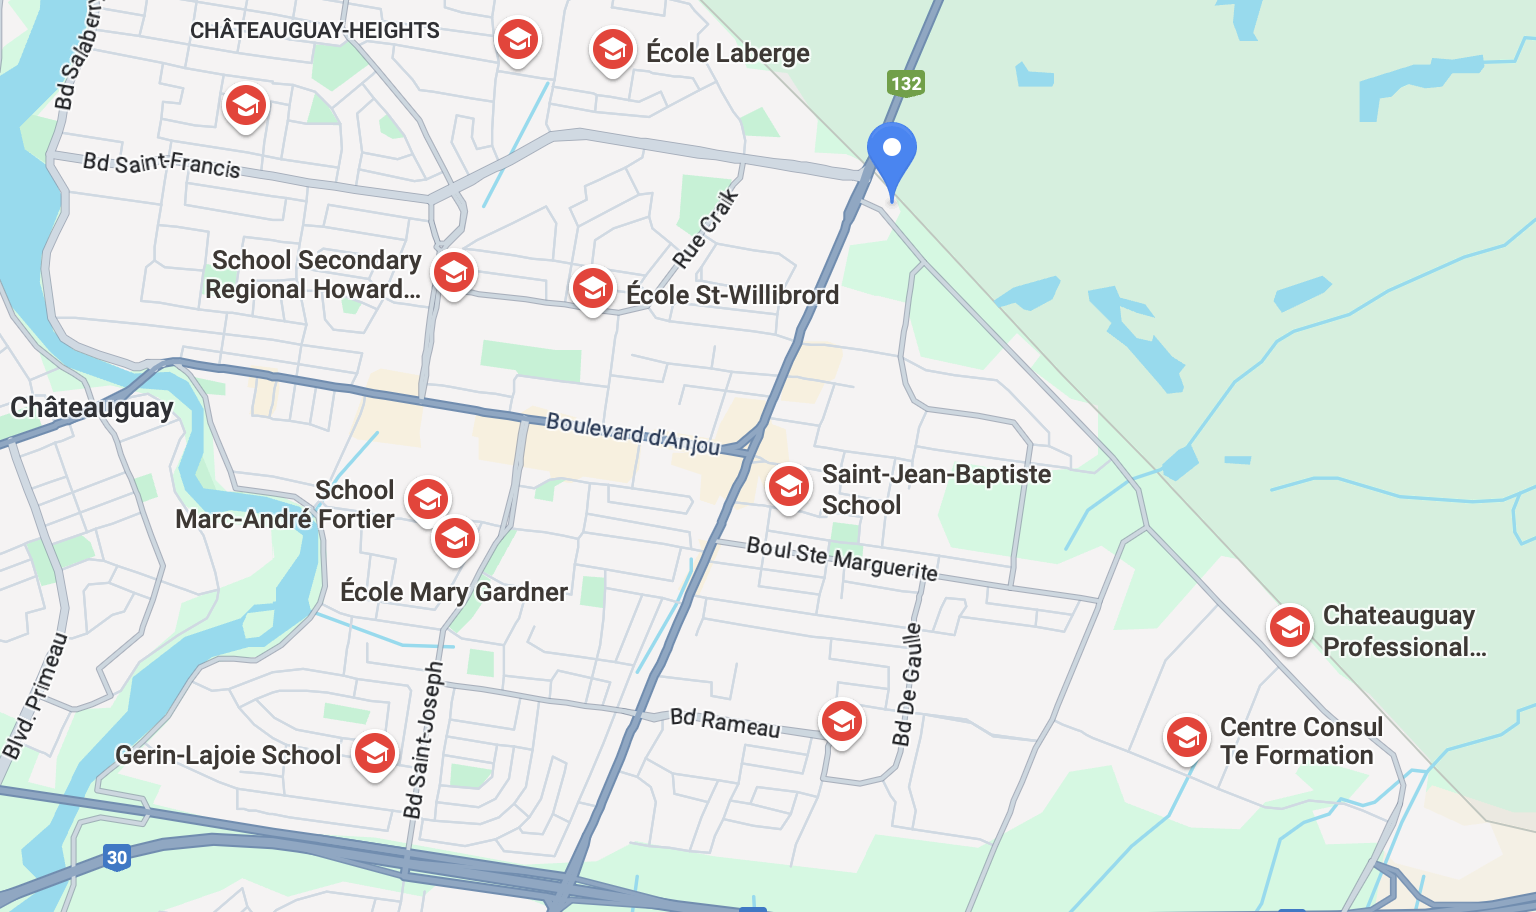
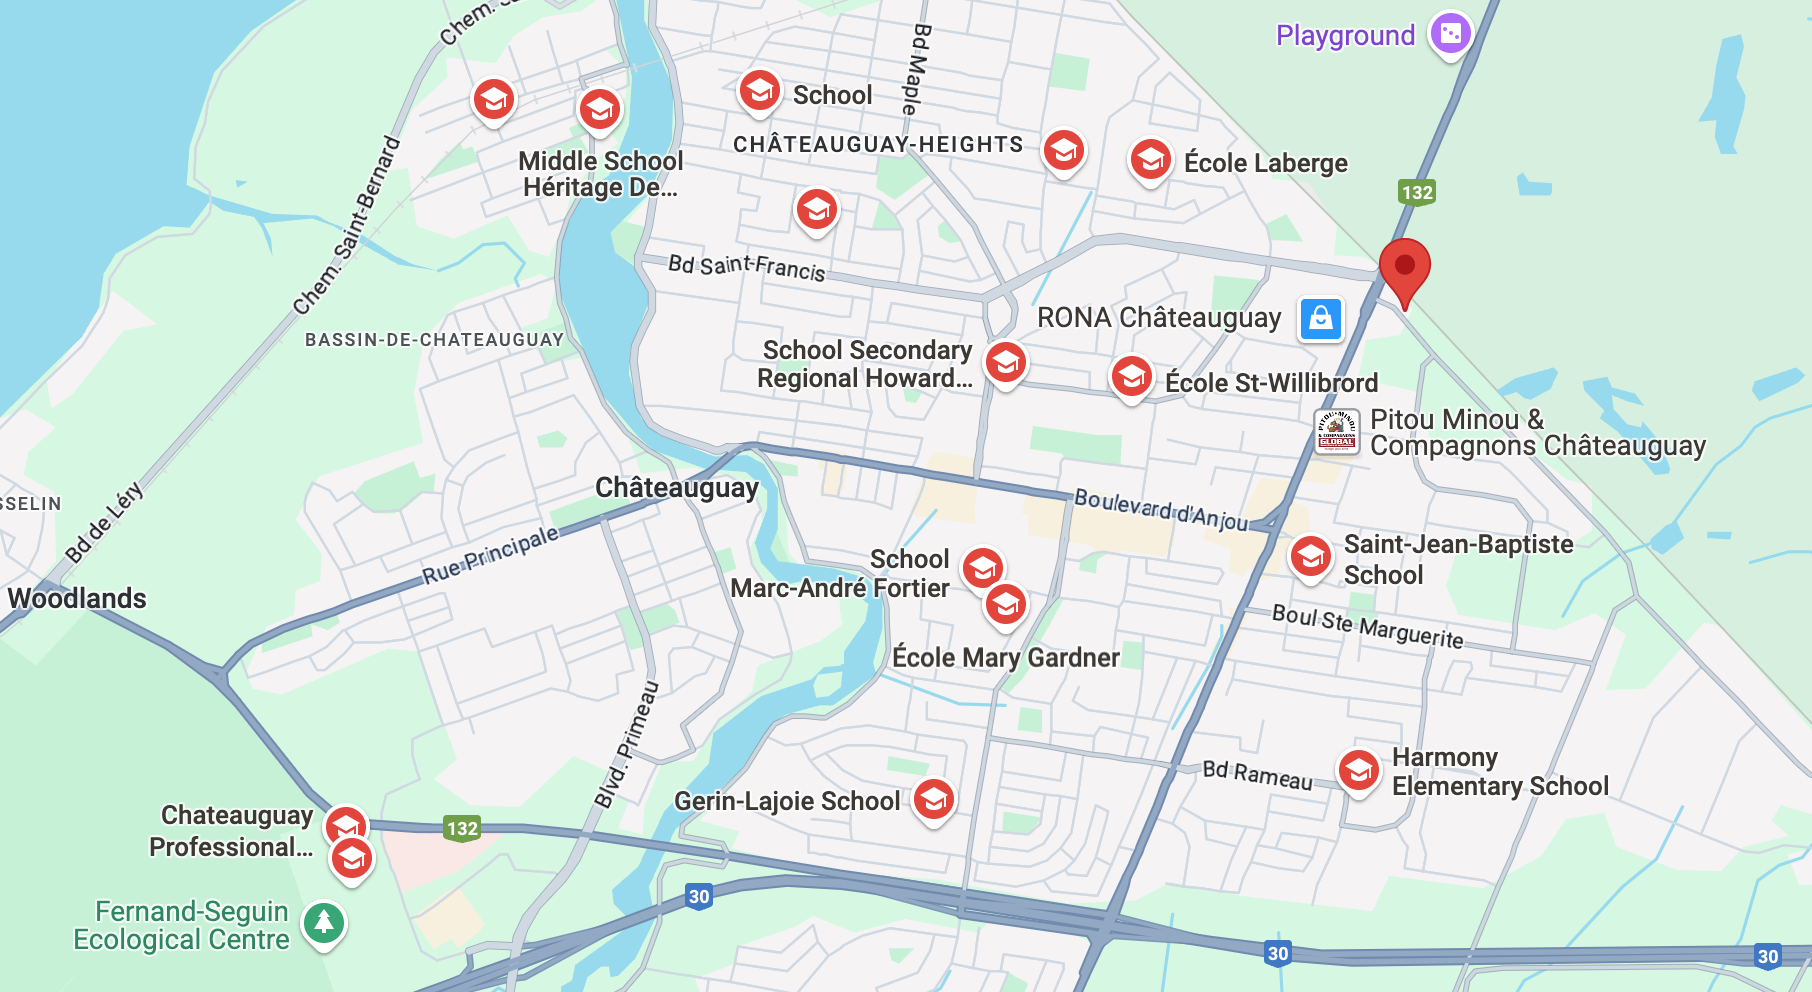
added few more tabs info to Map component

diff --git a/app/components/HospitalsTab.jsx b/app/components/HospitalsTab.jsx
@@ -3,12 +3,12 @@
 import React, { useContext, useRef, useEffect, useState } from "react";
 import Image from "next/image";
 import { LanguageContext } from "./LanguageContext";
-import schoolText_en from "@public/assets/text/en/schoolsTab_en";
-import schoolText_fr from "@public/assets/text/fr/schoolsTab_fr";
+import hospitalText_en from "@public/assets/text/en/hospitalsTab_en";
+import hospitalText_fr from "@public/assets/text/fr/hospitalsTab_fr";
 
-const SchoolsTab = () => {
+const HospitalsTab = () => {
 	const { language } = useContext(LanguageContext);
-	const textData = language === "fr" ? schoolText_fr : schoolText_en;
+	const textData = language === "fr" ? hospitalText_fr : hospitalText_en;
 
 	const [animateImage, setAnimateImage] = useState(false);
 	const [animateText, setAnimateText] = useState(false);
@@ -55,16 +55,16 @@ const SchoolsTab = () => {
 					className="relative w-full h-64 md:h-auto flex-1 cursor-pointer"
 					onClick={() =>
 						window.open(
-							"https://www.google.com/maps/place/20+Bd+Industriel,+Ch%C3%A2teauguay,+QC+J6J+4Z2/@45.3608678,-73.7379359,13.62z/data=!4m9!1m2!2m1!1sschools!3m5!1s0x4cc914937f112f53:0x3409e8f01cd0fe5d!8m2!3d45.3672779!4d-73.7087202!16s%2Fg%2F11c3q3psp_?entry=ttu&g_ep=EgoyMDI1MDMyNS4xIKXMDSoJLDEwMjExNjM5SAFQAw%3D%3D",
+							"https://www.google.com/maps/place/20+Bd+Industriel,+Ch%C3%A2teauguay,+QC+J6J+4Z2/@45.3571172,-73.7355027,14.15z/data=!4m9!1m2!2m1!1sclinics!3m5!1s0x4cc914937f112f53:0x3409e8f01cd0fe5d!8m2!3d45.3672779!4d-73.7087202!16s%2Fg%2F11c3q3psp_?entry=ttu&g_ep=EgoyMDI1MDMyNS4xIKXMDSoASAFQAw%3D%3D",
 							"_blank"
 						)
 					}
 				>
 					<Image
-						src="/assets/img/schools.png"
-						alt="Schools Châteauguay"
+						src="/assets/img/hospitals.png"
+						alt="Hospitals in Châteauguay"
 						fill
-						className="object-cover rounded-br-[5rem] hover:brightness-95 transition"
+						className="object-cover rounded-tr-[5rem] hover:brightness-95 transition"
 						priority
 					/>
 				</div>
@@ -89,4 +89,4 @@ const SchoolsTab = () => {
 	);
 };
 
-export default SchoolsTab;
+export default HospitalsTab;

diff --git a/app/components/EntertainmentTab.jsx b/app/components/EntertainmentTab.jsx
@@ -3,12 +3,13 @@
 import React, { useContext, useRef, useEffect, useState } from "react";
 import Image from "next/image";
 import { LanguageContext } from "./LanguageContext";
-import schoolText_en from "@public/assets/text/en/schoolsTab_en";
-import schoolText_fr from "@public/assets/text/fr/schoolsTab_fr";
+import entertainmentText_en from "@public/assets/text/en/entertainmentTab_en";
+import entertainmentText_fr from "@public/assets/text/fr/entertainmentTab_fr";
 
-const SchoolsTab = () => {
+const EntertainmentTab = () => {
 	const { language } = useContext(LanguageContext);
-	const textData = language === "fr" ? schoolText_fr : schoolText_en;
+	const textData =
+		language === "fr" ? entertainmentText_fr : entertainmentText_en;
 
 	const [animateImage, setAnimateImage] = useState(false);
 	const [animateText, setAnimateText] = useState(false);
@@ -55,14 +56,14 @@ const SchoolsTab = () => {
 					className="relative w-full h-64 md:h-auto flex-1 cursor-pointer"
 					onClick={() =>
 						window.open(
-							"https://www.google.com/maps/place/20+Bd+Industriel,+Ch%C3%A2teauguay,+QC+J6J+4Z2/@45.3608678,-73.7379359,13.62z/data=!4m9!1m2!2m1!1sschools!3m5!1s0x4cc914937f112f53:0x3409e8f01cd0fe5d!8m2!3d45.3672779!4d-73.7087202!16s%2Fg%2F11c3q3psp_?entry=ttu&g_ep=EgoyMDI1MDMyNS4xIKXMDSoJLDEwMjExNjM5SAFQAw%3D%3D",
+							"https://www.google.com/maps/place/20+Bd+Industriel,+Ch%C3%A2teauguay,+QC+J6J+4Z2/@45.3633887,-73.7269017,15z/data=!4m9!1m2!2m1!1smuseum!3m5!1s0x4cc914937f112f53:0x3409e8f01cd0fe5d!8m2!3d45.3672779!4d-73.7087202!16s%2Fg%2F11c3q3psp_?entry=ttu&g_ep=EgoyMDI1MDMyNS4xIKXMDSoASAFQAw%3D%3D",
 							"_blank"
 						)
 					}
 				>
 					<Image
-						src="/assets/img/schools.png"
-						alt="Schools Châteauguay"
+						src="/assets/img/entertainment.png"
+						alt="Entertainment in Châteauguay"
 						fill
 						className="object-cover rounded-br-[5rem] hover:brightness-95 transition"
 						priority
@@ -89,4 +90,4 @@ const SchoolsTab = () => {
 	);
 };
 
-export default SchoolsTab;
+export default EntertainmentTab;

diff --git a/app/components/Map.jsx b/app/components/Map.jsx
@@ -4,6 +4,8 @@ import React, { useState } from "react";
 import { motion } from "framer-motion";
 import TransportationTab from "./TransportationTab";
 import SchoolsTab from "./SchoolsTab";
+import HospitalsTab from "./HospitalsTab";
+import EntertainmentTab from "./EntertainmentTab";
 import Image from "next/image";
 
 const tabs = [
@@ -35,9 +37,9 @@ const Map = () => {
 			case "schools":
 				return <SchoolsTab />;
 			case "hospitals":
-				return <div>Hospitals content goes here</div>;
+				return <HospitalsTab />;
 			case "entertainment":
-				return <div>Entertainment content goes here</div>;
+				return <EntertainmentTab />;
 			default:
 				return null;
 		}

diff --git a/public/assets/text/fr/entertainmentTab_fr.js b/public/assets/text/fr/entertainmentTab_fr.js
@@ -1,0 +1,8 @@
+const entertainmentText_fr = [
+	"Châteauguay propose une variété d’options de divertissement pour tous les âges et tous les goûts.",
+	"Des cinémas aux festivals locaux et activités de plein air, il y a toujours quelque chose à faire.",
+	"Vous pouvez également profiter du centre culturel et des événements communautaires tout au long de l’année.",
+	"La ville offre une ambiance sociale dynamique avec de nombreuses activités de loisirs pour les familles et les particuliers."
+];
+
+export default entertainmentText_fr;

diff --git a/public/assets/text/fr/hospitalsTab_fr.js b/public/assets/text/fr/hospitalsTab_fr.js
@@ -1,0 +1,8 @@
+const hospitalText_fr = [
+	"Châteauguay abrite des établissements de santé essentiels qui desservent efficacement la communauté.",
+	"Les services clés incluent les urgences, les soins spécialisés et les cliniques familiales.",
+	"L’Hôpital Anna-Laberge est un centre médical majeur offrant une large gamme de services.",
+	"Les résidents bénéficient d’un accès rapide aux soins et d’une infrastructure médicale régionale solide."
+];
+
+export default hospitalText_fr;

diff --git a/public/assets/text/en/entertainmentTab_en.js b/public/assets/text/en/entertainmentTab_en.js
@@ -1,0 +1,8 @@
+const entertainmentText_en = [
+	"Châteauguay offers a variety of entertainment options for all ages and interests.",
+	"From movie theaters to local festivals and outdoor activities, there's always something to do.",
+	"You can also enjoy the cultural center and community events throughout the year.",
+	"The city provides a vibrant social atmosphere with great leisure activities for families and individuals alike."
+];
+
+export default entertainmentText_en;

diff --git a/public/assets/text/en/hospitalsTab_en.js b/public/assets/text/en/hospitalsTab_en.js
@@ -1,0 +1,8 @@
+const hospitalText_en = [
+	"Châteauguay is home to essential healthcare facilities that serve the community efficiently.",
+	"Key services include emergency care, specialized treatment, and family clinics.",
+	"The Anna-Laberge Hospital is a major medical center offering a wide range of services.",
+	"Residents benefit from quick access to healthcare and strong regional medical infrastructure."
+];
+
+export default hospitalText_en;
